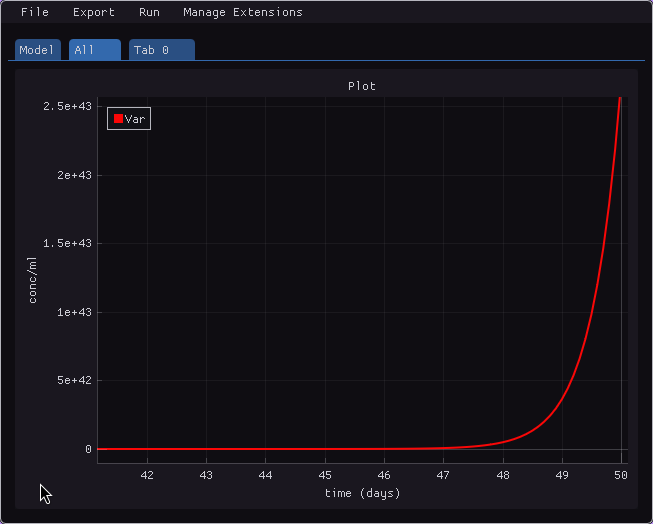
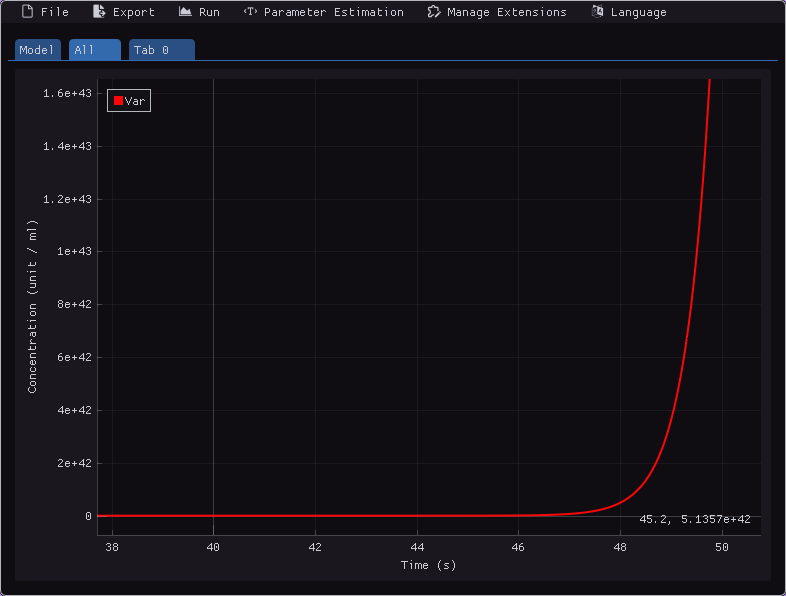
doc: update README to include newer build instructions doc: update README images with latest version of the software doc: grammar changes in README

diff --git a/README.md b/README.md
@@ -18,11 +18,11 @@ Through a visually intuitive graphical user interface (GUI), ODE-Designer allows
 
 ### Node-based editor
 
-![Imagem do editor de nós no software, contendo os nós 'Var', 'Const', 'grow' e 'dVar/dt', que constroem a EDO dVar/dt = Var*Const](readme/demo-nodes.png)
+![Image from the node editor in the software, containing the nodes 'Var', 'Const', 'grow' and 'dVar/dt', which construct the ODE dVar/dt = Var*Const](readme/demo-nodes.png)
 
 ### Plotting
 
-![Plotagem da EDO dVar/dt = Var*Const nos tempos 41 até 50, para os valores iniciais Var = 1 e Const = 2](readme/demo-simulation.png)
+![Plotting of the ODE dVar/dt = Var*Const from times 38 to 50, for the initial values Var = 1 and Const = 2](readme/demo-simulation.png)
 
 ### Python code export and pdf export
 
@@ -46,8 +46,8 @@ def variable_names() -> list[str]:
 def system(t: np.float64, y: np.ndarray, *constants) -> np.ndarray:
     Var, = y
     Const, = constants
-    
-    dVar_dt = Var*Const 
+
+    dVar_dt = Var*Const
 
     return np.array([dVar_dt])
 
@@ -73,15 +73,15 @@ def power(x, y):
 
 By importing it in the *Manage Extensions* menu, you can use the defined nodes as if they were native, as in the image below.
 
-![O editor de nós incluindo os nós customizados de seno e potência](readme/demo-with-extensions-nodes.png)
+![Showcase of the custom nodes 'sin' and 'pow' in the node editor](readme/demo-with-extensions-nodes.png)
 
 The code can be used to simulate just like native nodes.
 
-![Plotagem das EDOs utilizando nós customizados](readme/demo-with-extensions-simulation.png)
+![Plotting of the previous ODEs utilizing custom nodes](readme/demo-with-extensions-simulation.png)
 
 ## How to install
 
-It is recommended to use the executables available in *Releases* on GitHub. [This link](https://github.com/Syndelis/ode-designer-rs/releases/latest) can be used to always redirect to the latest version.
+It is recommended to use the executables available in *Releases* on GitHub. [This link](https://github.com/ufsj-dcomp/ode-designer-rs/releases/latest) can be used to always redirect to the latest version.
 
 ### Linux
 
@@ -125,14 +125,13 @@ The Windows distribution consists of a ZIP that can be extracted and its content
 
 ### Using Docker
 
-To compile and use the software and its full potential, you can use the provided Docker image. The dependencies are only `docker` itself and the `docker-buildx` plugin.
+You can use the provided Dockerfile to build your own AppImage with no build tools installed directly on your system. Simply run:
 
 ```sh
-$ docker buildx build -t ode-designer-appimage-builder .
-$ docker run -v ./container-target:/ode-designer/target/ ode-designer-appimage-builder
+$ docker build -t ode-designer-appimage-builder --output=. .
 ```
 
-After this execution, the AppImage should be available in `.container-target/appimage/ode-designer-rs.AppImage`. This AppImage, as well as those found in *Releases*, have Python and the `scipy` and `matplotlib` dependencies for code generation, interactive simulation and PDF export.
+After this execution, the AppImage should be available in `./ode-designer.AppImage`. This AppImage, as well as those found in *Releases*, include Python and the `scipy` and `matplotlib` dependencies for code generation, interactive simulation and PDF export.
 
 ### Manually
 
@@ -142,18 +141,18 @@ To compile and run the software outside of the AppImage, the Rust toolchain (nig
 $ cargo run
 ```
 
-Or 
+Or
 
 ```sh
 $ cargo build --release
 $ ./target/release/ode-designer-rs
 ```
 
-If anything goes wrong, try 
+If anything goes wrong, try
 
 ```sh
 $ git submodule update --init --recursive
 $ git submodule update --recursive --remote
 ```
 
-Then, recompile and run. 
+Then, recompile and run.
